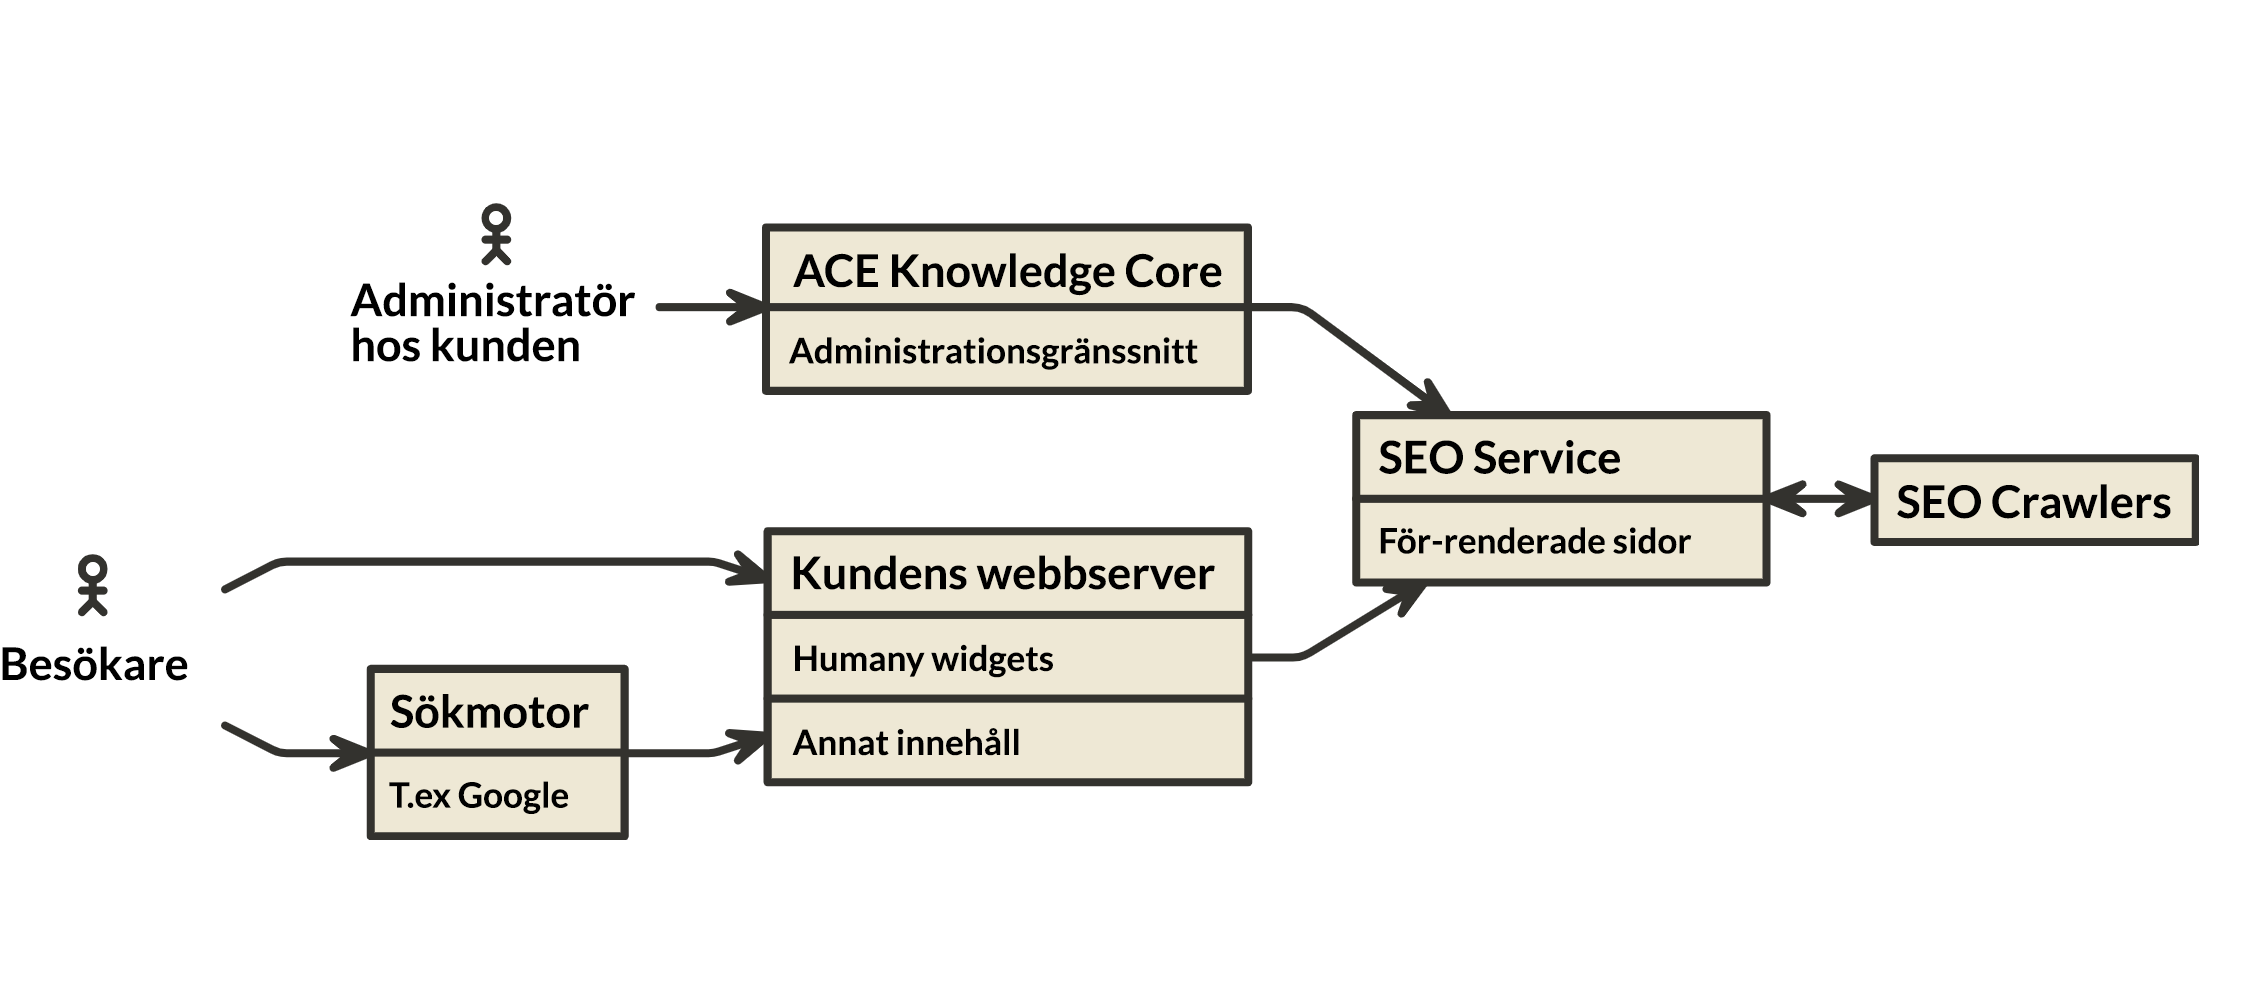
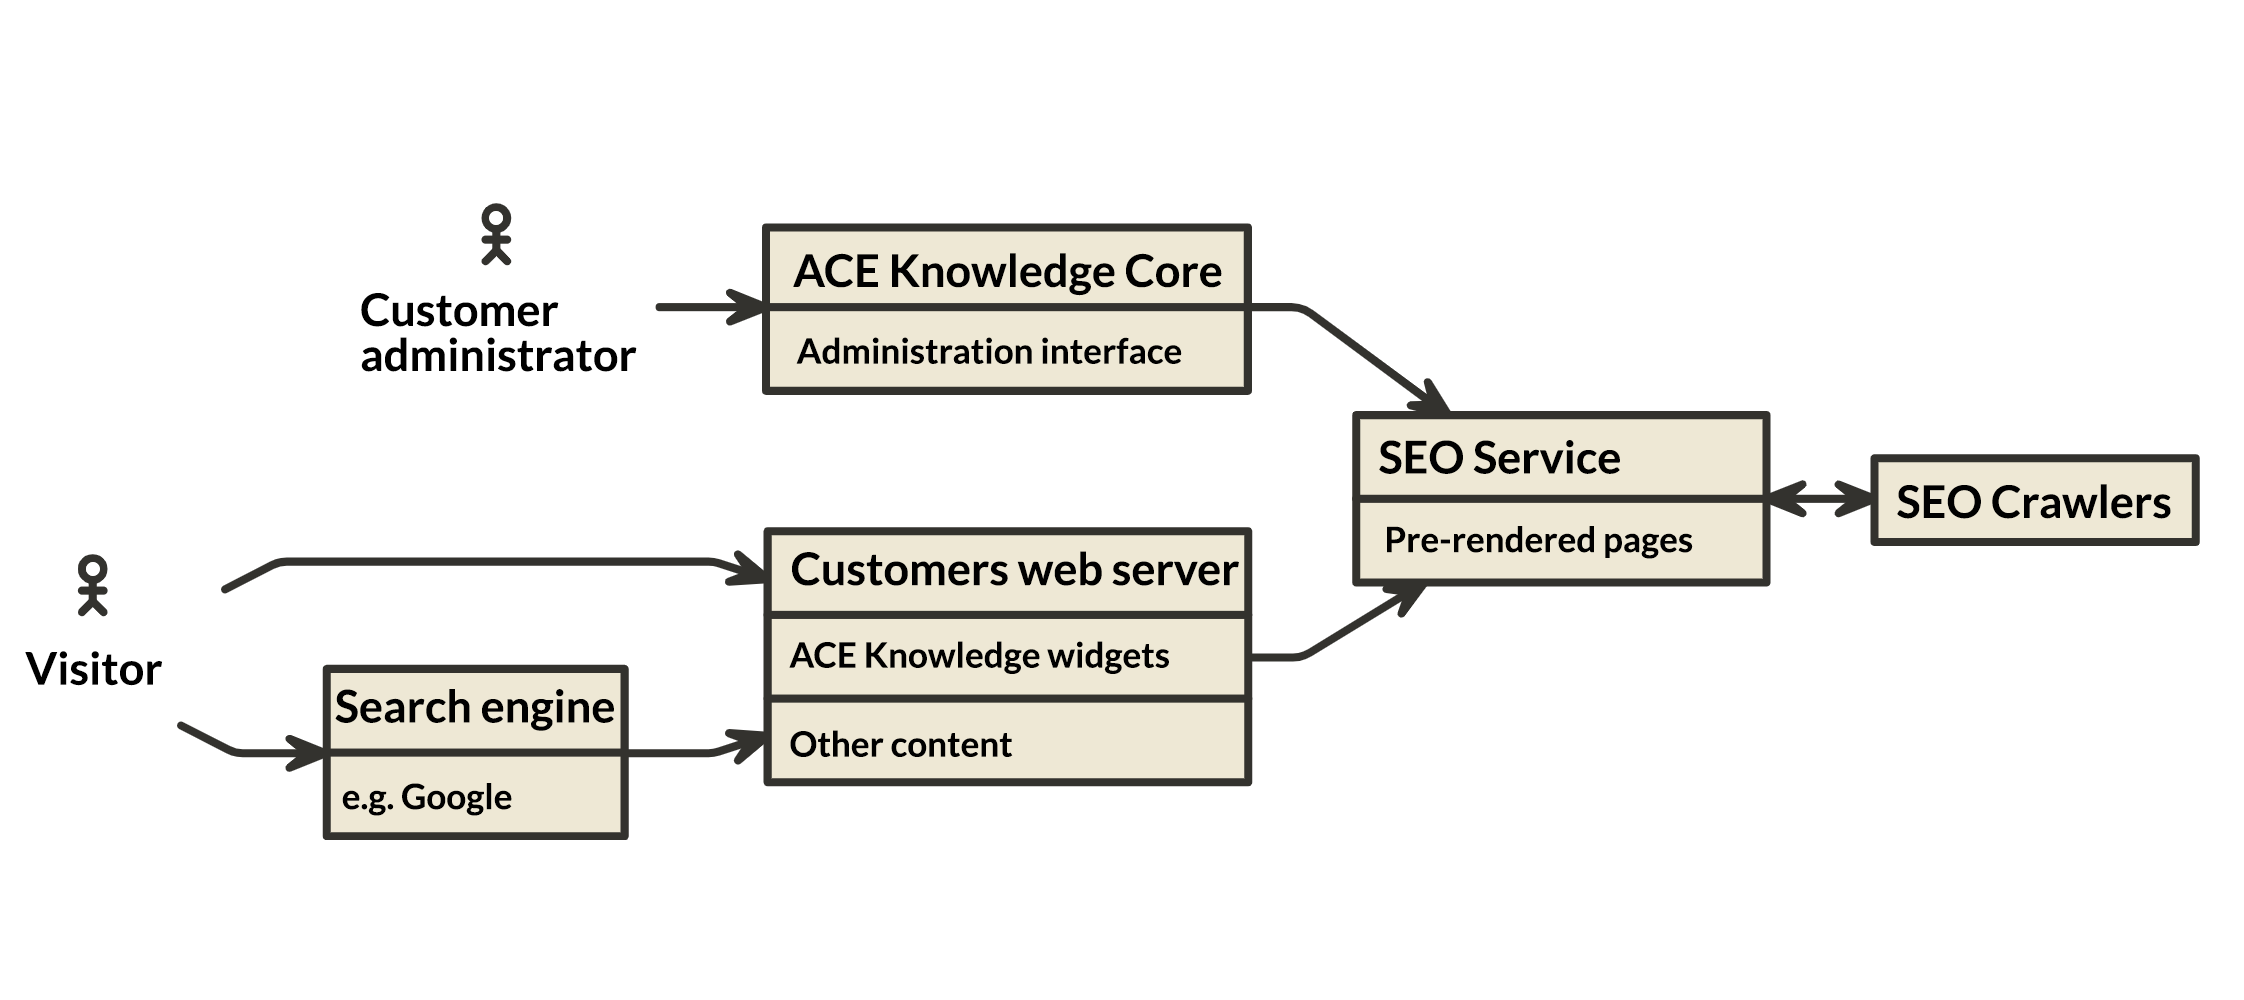
english README and image

diff --git a/SEO/README.md b/SEO/README.md
@@ -1,59 +1,56 @@
-SEO (_Search Engine Optimization_), eller _Sökmotoroptimering_ är ett samlingsnamn för de olika metoder som används för att få en webbsida att ranka så högt upp som möjligt vid sökningar på olika sökmotorer som tex. Google. Här följer en övergripande beskrivning av hur vår SEO service fungerar.
+# How does SEO for widgets in Ace Knowledge work?
 
-### Aktivera SEO på en widget
-
-Vår senaste SEO-tjänst fungerar för inline-widgets från och med version 4\. För att aktivera SEO för en widget så går du in och redigerar den widget du vill ändra under sektionen "Aktivera sökmotoroptimering" och ändrar inställningen från "SEO är inte aktiverat" till något av följande alternativ.
-
-1.  Indexera på din applikations domän _dinApplikation.humany.net_
-    *   Detta aktiverar sökmotoroptimering för din widget på den domän din applikation har hos Ace Knowledge. En användare som hittar ditt innehåll på Google kommer att hamna på en sida på denna domän och sedan länkas de vidare därifrån till den webbadress som du specificerat under steg 3 i sektionen "Bädda in på din webbplats" som ligger under SEO-sektionen när du redigerar din widget. 
-2.  Indexera på Egen domän
-    *   Detta möjliggör att du kan få innehållet i din widget indexerat på en domän som du själv kontrollerar. Detta kräver att en SEO-komponent skapas och läggs upp på din server. [Här hittar du mer information och dokumentation för hur du skapar en egen SEO-komponent.](https://github.com/Humany/humany-docs/tree/master/SEO)
+SEO (Search Engine Optimization), or Search Engine Optimization, is a collective name for the various methods used to get a web page to rank as high as possible in search results on different search engines such as Google. Here is a description of how our SEO service works.
 
 ### SEO service
 
-När man aktiverar SEO på en widget så indexeras innehållet av vår SEO service och resultatet sparas ner i en databas. Innehållet i denna databas (för-renderade HTML-sidor) kan sedan göras tillgängliga genom att kunden lägger upp en SEO-komponent på sin webbserver. I dagsläget är det endast inline-widgetar som stödjer SEO då det krävs att varje vy i widgeten har en egen unik URL.
+When you enable SEO on a widget, the content is indexed by our SEO service and the result is stored in a database. The content of this database (pre-rendered HTML pages) can then be made available when the customer creates and adds a SEO component to their web server. Only inline widgets support sour SEO service as each view in the widget is required to have its own unique URL.
 
-#### Översikt
+### Overview
 
 ![](img/schema_overview.png)
 
-Bilden ovan beskriver flödet i vår SEO-service. I detta scenario förutsätter vi att kunden har byggt och publicerat en SEO-komponent, som kontaktar vår SEO service, på sin webbserver.
+The image above describes the flow of our SEO service. In this scenario, we assume that the client has built and published an SEO component, which contacts our SEO service, on their web server.
 
-Här kan du läsa mer om hur du skapar en egen SEO-komponent. (ska bli en länk)
+[You can read more about how to create your own SEO component here](tutorial-seo-full.md).  
 
-1\. **Administratör hos kunden** aktiverar SEO på en widget i ACE knowledge administrationsgränssnitt. 
+1.  The customers administrator enables SEO on a widget in the ACE Knowledge management interface.
+2.  ACE knowledge core registers the widget in the SEO Service.
+3.  SEO crawlers ask the SEO Service for jobs.
+    *   The SEO Crawler starts indexing the widget.
+    *   The SEO Crawler reports HTML, CSS and internal links back to the SEO Service.
+    *   The process continues until all pages are indexed
+4.  The customers web page is indexed by the search engine.
+5.  Visitors search on the search engine and are linked to the customer's website
 
-2\. ACE knowledge **core** registrerar widgeten i SEO-Service.
+In steps 4 and 5, the visitor's browsers renders the page as follows:
 
-3\. SEO crawlers frågar **SEO Service** efter jobb.
+*   The customer's web server contacts ACE Knowledge's SEO Service to obtain pre-rendered HTML.
+*   The customer's web server sends pre-rendered HTML among the first calls to the visitor - the content is displayed immediately.
+*   The visitor's browser continues to fetch and load the widget.
+*   When the widget is complete, its contents is displayed.
 
-*   **SEO Crawler** börjar indexera widgeten.
+![](img/schema_overview.png)
 
-*   SEO Crawler rapporterar HTML, CSS och interna länkar tillbaka till SEO-Service.
+### Queues
 
-*   Processen fortsätter tills alla sidor är indexerade
+ACE knowledge's SEO Service has two queues with different priorities for indexing content in the widget.
 
-4\. **Sökmotorn** indexerar kundens webbsida. 
+**High-priority queue**
 
-5. **Besökare** söker på sökmotorn och länkas till kundens webbsida.
+The high-priority-queue responds to changes in ACE Knowledge Core, eg. in guides or when activating SEO on a widget. Changes detected in the high-priority queue are indexed directly and are available within 1-2 minutes.
 
-I steg 4 och 5 renderar besökarens webbläsare sidan enligt nedan:
+**Low-priority queue**
 
-*   Kundens webbserver kontaktar ACE knowledge's SEO Service för att få för-renderad HTML.
-*   Kundens webbserver skickar för-renderad HTML bland de första anropen till besökaren - innehållet visas direkt.
-*   Besökarens webbläsare fortsätter med att hämta och läsa in widgeten.
-*   När widgeten är klar visas dess innehåll.
+One example of a change running in the low-priority-queue is statistics that update the  <wbr>ACE Knowledge's top lists. Changes detected in the low-priority-queue are indexed once a day, outside of office hours, to reduce the load on ACE knowledge's servers. The low-priority-queue is run only if the high-priority queue is empty.
 
-![](img/schema_detailed.png)
 
-#### Köer
+# How do I enable SEO for a widget?
+Our latest SEO service works for inline widgets from version 4 and above. To enable SEO for a widget, you edit it under the "Enable Search Engine Optimization" section and change the setting from "SEO is not enabled" to any of the following alternatives:
 
-ACE knowledge's SEO-Service har två köer som har olika prioritering för när innehåll i widgeten indexeras.
+1.  Index on your application domain _yourApplication.humany.net_
+    *   This enables search engine optimization for your Ace Knowledge widgets domain. A user who finds your content on Google will land on a page in this domain and be redirected to the URL you specified in step 3 of the "Embed on your site" section under the SEO section when editing your widget.
+2.  Index on Own Domain
+    *   This allows you to have your widgets contents indexed on a domain that you control yourself. This requires that you create and add an SEO component to your server. [Here you will find more information and documentation on how to create your own SEO component.](tutorial-seo-full.md)
 
-**Hög-prio-kö**
-
-Hög-prio-kön reagerar på förändringar i ACE knowledge Core, tex. i guider eller aktivering av SEO på en widget. Ändringar som upptäcks i hög-prio-kön indexeras direkt och är tillgängligt inom 1-2 minuter.
-
-**Låg-prio-kö**
-
-Exempel på förändringar som körs i låg-prio-kön är statistik som uppdaterar ACE knowledge's topplistor. Ändringar som upptäcks i låg-prio-kön indexeras en gång per dygn, utanför kontorstid, för att minska lasten på ACE knowledge's servrar. Låg-prio-kön körs endast om hög-prio-kön är tom.
+_Note: Related to the launch of our new SEO service for version 4 widgets and above, it will no longer be possible to enable SEO on older widget versions. In this case, the widget needs to be upgraded. However, if SEO is already enabled on an older widget, this SEO will continue to work._
